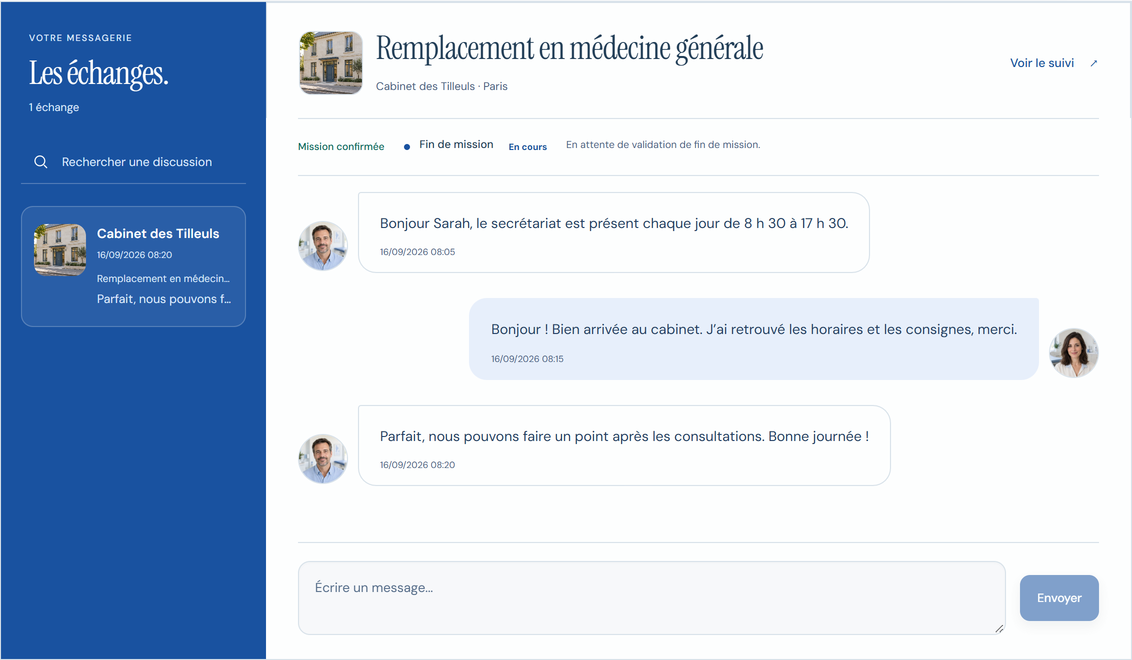
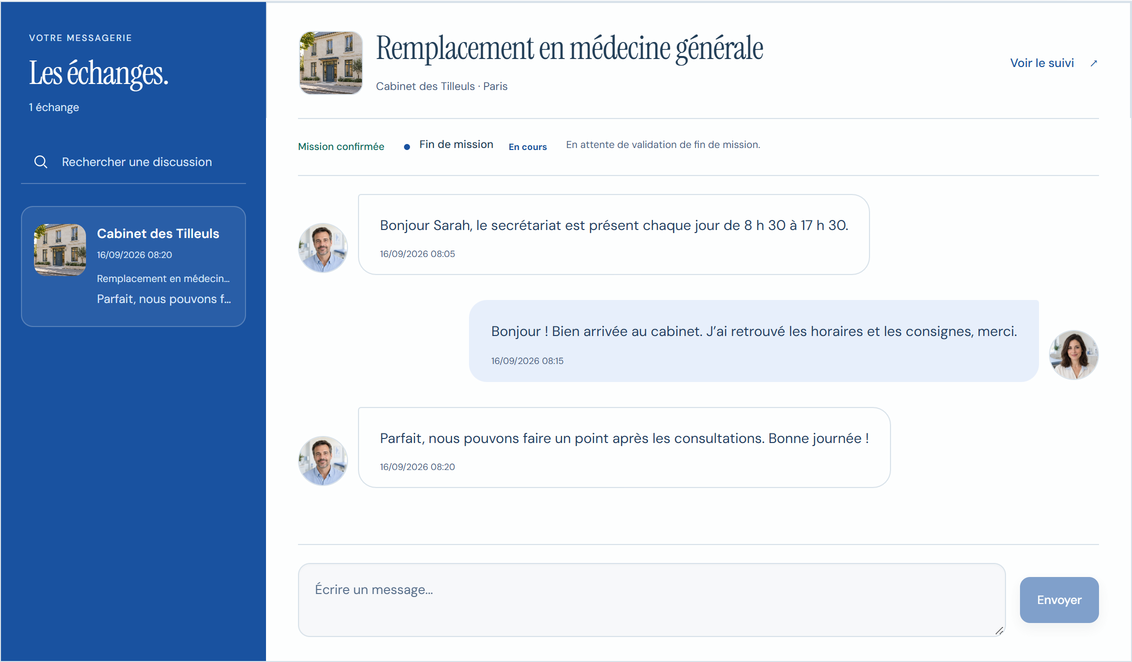
fix: unify landing laptop screens to 16:10 proportions

diff --git a/medilink-frontend-v2-polished/app/(public-home)/interface-previews.css b/medilink-frontend-v2-polished/app/(public-home)/interface-previews.css
@@ -36,7 +36,7 @@ html body.landing-home:not(.persona-page) .ml-interface-preview {
   box-shadow: inset 0 0 0 1px #e3e8ed80, 0 16px 32px -21px #1d354c80;
 }
 .landing-home .ml-device-camera { position: absolute; top: .75cqw; left: calc(50% - .2cqw); width: .4cqw; height: .4cqw; border-radius: 50%; background: #426078; box-shadow: 0 0 0 .13cqw #10161e; }
-.landing-home .ml-device-screen { position: relative; display: block; box-sizing: content-box; overflow: hidden; aspect-ratio: var(--ml-screen-ratio); border: 1px solid #101c2c; border-radius: .7cqw; background: var(--brand-paper); }
+.landing-home .ml-device-screen { position: relative; display: block; box-sizing: content-box; overflow: hidden; aspect-ratio: 16 / 10; border: 1px solid #101c2c; border-radius: .7cqw; background: var(--brand-paper); }
 .landing-home .ml-interface-display picture { position: absolute; inset: 0; display: flex; align-items: center; justify-content: center; height: 100%; overflow: hidden; background: var(--brand-paper); }
 /* Desktop captures meet the macOS toolbar with square content corners. */
 .landing-home .ml-interface-display img { display: block; width: auto; height: auto; max-width: 100%; max-height: 100%; object-fit: contain; }
@@ -50,14 +50,12 @@ html body.landing-home:not(.persona-page) .ml-interface-preview {
 
 @media (min-width: 701px) {
   .landing-home :is(.ml-interface-preview--mission, .ml-interface-preview--documents) .ml-interface-stage { padding-inline: 12px; }
-  /* The maximized macOS window fills the physical screen edge to edge.
-     Its content keeps the complete native capture's own proportions. */
-  .landing-home .ml-device-screen {
-    aspect-ratio: auto;
-  }
+  /* All laptops share a 16:10 screen; content never determines the device shape. */
   .landing-home .ml-macos-window {
-    position: relative;
-    display: block;
+    position: absolute;
+    inset: 0;
+    display: flex;
+    flex-direction: column;
     overflow: hidden;
     background: var(--brand-paper);
   }
@@ -66,7 +64,8 @@ html body.landing-home:not(.persona-page) .ml-interface-preview {
     display: flex;
     align-items: center;
     justify-content: center;
-    height: 3.2cqw;
+    flex: 0 0 auto;
+    aspect-ratio: 25 / 1;
     border-bottom: 1px solid #d6dfe8;
     background: linear-gradient(#f8fafce8, #eaf0f6e8);
     color: #43556c;
@@ -77,7 +76,9 @@ html body.landing-home:not(.persona-page) .ml-interface-preview {
   .landing-home .ml-macos-lights > span { width: .9cqw; height: .9cqw; border-radius: 50%; background: #ff6058; box-shadow: inset 0 0 0 1px #00000012; }
   .landing-home .ml-macos-lights > span:nth-child(2) { background: #febc2e; }
   .landing-home .ml-macos-lights > span:nth-child(3) { background: #28c840; }
-  .landing-home .ml-interface-display picture { position: relative; inset: auto; height: auto; aspect-ratio: var(--ml-screen-ratio); }
+  .landing-home .ml-interface-display picture { position: relative; inset: auto; display: block; flex: 1 1 0; min-height: 0; height: auto; }
+  .landing-home .ml-interface-display img { width: 100%; max-height: none; }
+  .landing-home .ml-interface-preview--documents picture { overflow-y: auto; overscroll-behavior-y: contain; scrollbar-width: thin; scrollbar-color: #9fadc0 var(--brand-paper); }
 }
 
 @media (max-width: 700px) {

diff --git a/medilink-frontend-v2-polished/content/landing-interface-preview.ts b/medilink-frontend-v2-polished/content/landing-interface-preview.ts
@@ -11,14 +11,14 @@ export function interfacePreview(name: PreviewName, className: string, title: st
     `/landing-assets/interface/${name}-${device.device}${retina ? '@2x' : ''}.webp?v=${device.sha256.slice(0, 12)}`;
 
   const previewStyle = name === 'documents' || name === 'mission' ? ` style="--ml-${name}-preview-ratio:${mobile.width}/${mobile.previewHeight}"` : '';
-  const scrollAttributes = name === 'mission' ? '' : ` tabindex="0" role="group" aria-label="${title} — aperçu défilable sur mobile"`;
+  const scrollAttributes = name === 'mission' ? '' : ` tabindex="0" role="group" aria-label="${title} — aperçu défilable${name === 'messages' ? ' sur mobile' : ''}"`;
 
   return `<figure class="${className} ml-interface-preview ml-interface-preview--${name}" aria-label="${title}"${previewStyle}>
     <div class="ml-interface-display" data-interface-preview="${name}">
       <span class="ml-interface-stage">
         <span class="ml-interface-window">
           <span class="ml-device-camera" aria-hidden="true"></span>
-          <span class="ml-device-screen" style="--ml-screen-ratio:${desktop.width}/${desktop.height}">
+          <span class="ml-device-screen">
             <span class="ml-device-status" aria-hidden="true"><span>9:41</span><span class="ml-device-island"></span><span class="ml-device-indicators"><svg viewBox="0 0 40 12" fill="currentColor"><path d="M0 8h2v4H0zm4-3h2v7H4zm4-2h2v9H8zm4-3h2v12h-2z"/><rect x="20" y="1" width="16" height="10" rx="3" fill="none" stroke="currentColor"/><rect x="22" y="3" width="12" height="6" rx="1"/><path d="M38 4h2v4h-2z"/></svg></span></span>
             <span class="ml-macos-window">
               <span class="ml-macos-toolbar" aria-hidden="true"><span class="ml-macos-lights"><span></span><span></span><span></span></span><span class="ml-macos-title">MédiLink</span></span>

diff --git a/medilink-frontend-v2-polished/public/landing-assets/interface/README.md b/medilink-frontend-v2-polished/public/landing-assets/interface/README.md
@@ -22,6 +22,6 @@ The desktop message layout and document dossier have square outer corners in the
 
 `manifest.json` records the source routes, viewport sizes, crops, output dimensions, browser version and SHA-256 of each 2× image. Both 1× and 2× files are lossless WebP. Regenerate the whole set after interface changes; do not retouch the UI inside individual images.
 
-The landing displays these captures in CSS device frames: a laptop above 700 px and an iPhone on narrower viewports. Desktop documents also use a 1600 px viewport, retaining their complete native card. Each desktop screen uses its capture's aspect ratio, so the image meets all screen edges without blank bands. The iPhone keeps native image proportions; its status and home-indicator areas scale with the phone width. The six-step mission capture fits completely in its screen. The longer documents capture remains accessible through scrolling, including with the keyboard. Previews have no image links, click handlers or lightbox.
+The landing displays these captures in CSS device frames: a laptop above 700 px and an iPhone on narrower viewports. Every laptop uses the same fixed 16:10 screen, including its 25:1 macOS toolbar. The desktop messages viewport height matches the remaining content area; the mission capture fits that area by reducing only the blank outer margin, keeping the complete native route. Desktop documents retain their complete native card, which scrolls within the fixed screen with a visible scrollbar and keyboard access. No capture is stretched, and image dimensions never determine the laptop's proportions. The iPhone keeps native image proportions; its status and home-indicator areas scale with the phone width. The six-step mission capture fits completely in its screen. The longer documents capture remains accessible through scrolling, including with the keyboard. Previews have no image links, click handlers or lightbox.
 
 Portraits and the establishment photo are fictional generated assets documented in `../people/README.md`. They are injected only through screenshot fixtures, never as default photos for real accounts. Image decoding finishes before capture. When only messages or mission photos change, run a partial capture into a review directory and replace those files and their matching manifest entries together, preserving the documents preview.

diff --git a/medilink-frontend-v2-polished/AGENTS.md b/medilink-frontend-v2-polished/AGENTS.md
@@ -10,6 +10,8 @@ This block is written and re-added by `next dev` — verify at `node_modules/nex
 
 ## Landing pages and SEO
 
+The user subsequently requested identical proportions for all desktop computers. All three laptop screens now use a fixed 16:10 ratio, including a macOS toolbar with a 25:1 width/height ratio. Never derive the physical screen ratio from capture dimensions. Native desktop messages are captured using a matching real viewport height; the complete mission route uses tighter blank outer margins. Long documents scroll inside the fixed screen, including by keyboard, without zoom or image distortion. Preserve the enlarged desktop widths and all phone layouts. This supersedes earlier capture-dependent laptop heights.
+
 The user subsequently requested moderately larger desktop mockups in the continuity and shared-documents sections. Their mirrored two-column grids use a 1200px maximum, a 64px desktop gap and 58% of the available column space for the preview; desktop preview side padding is 12px. This increases the large-screen captures by about 15% while retaining readable copy. Preserve existing tablet stacking, all phone dimensions, and the messages mockup size.
 
 The user subsequently shortened the continuity section by removing “Quand vous en avez besoin.” from its heading and repeated closing line. Keep “où en est la mission.” highlighted with the shared `.title-accent` brand blue in its existing h2, consistent with the other landing headings.
